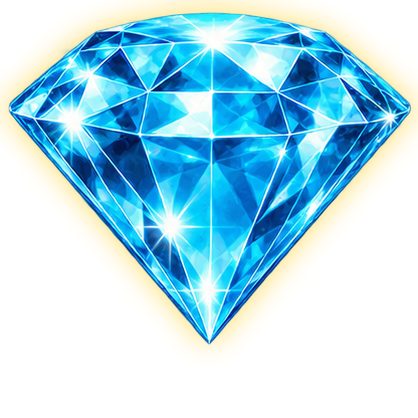
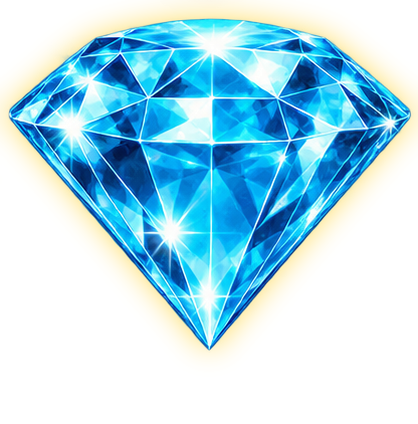
refine gold frame scaling, symbol extraction and Android asset loading checks

Changed region(s): [[0.0, 0.0, 0.9952, 0.8397]]

diff --git a/app/src/androidTest/java/com/mohamadhh/goldenclover/SmokeInstrumentation.java b/app/src/androidTest/java/com/mohamadhh/goldenclover/SmokeInstrumentation.java
@@ -7,11 +7,11 @@ public final class SmokeInstrumentation extends Instrumentation {
  private GoldenCloverView view;private GameState state;private String preset;private File directory;
  @Override public void onCreate(Bundle args){super.onCreate(args);preset=args.getString("preset","16x9");start();}
  private void check(boolean b,String message){if(!b)throw new AssertionError(message);}
- private void tap(float x,float y)throws Exception{final float[] point=new float[2];runOnMainSync(()->{float scale=Math.min(view.getWidth()/1920f,view.getHeight()/1080f);point[0]=(view.getWidth()-1920*scale)/2+x*scale;point[1]=(view.getHeight()-1080*scale)/2+y*scale;});long t=SystemClock.uptimeMillis();MotionEvent down=MotionEvent.obtain(t,t,MotionEvent.ACTION_DOWN,point[0],point[1],0);MotionEvent up=MotionEvent.obtain(t,t+60,MotionEvent.ACTION_UP,point[0],point[1],0);getUiAutomation().injectInputEvent(down,true);getUiAutomation().injectInputEvent(up,true);down.recycle();up.recycle();SystemClock.sleep(200);}
+ private void tap(float x,float y)throws Exception{final float[] point=new float[2];runOnMainSync(()->{try{Field f=GoldenCloverView.class.getDeclaredField("layout");f.setAccessible(true);ResponsiveLayout l=(ResponsiveLayout)f.get(view);point[0]=l.left+x*l.scale;point[1]=l.top+y*l.scale;}catch(Exception err){throw new RuntimeException(err);}});long t=SystemClock.uptimeMillis();MotionEvent down=MotionEvent.obtain(t,t,MotionEvent.ACTION_DOWN,point[0],point[1],0);MotionEvent up=MotionEvent.obtain(t,t+60,MotionEvent.ACTION_UP,point[0],point[1],0);getUiAutomation().injectInputEvent(down,true);getUiAutomation().injectInputEvent(up,true);down.recycle();up.recycle();SystemClock.sleep(200);}
  private void shot(String name)throws Exception{waitForIdleSync();SystemClock.sleep(150);Bitmap b=getUiAutomation().takeScreenshot();check(b!=null,"screenshot available");try(FileOutputStream out=new FileOutputStream(new File(directory,preset+"-"+name+".png"))){b.compress(Bitmap.CompressFormat.PNG,100,out);}b.recycle();}
  @Override public void onStart(){Bundle result=new Bundle();Activity activity=null;try{
   Intent intent=new Intent(getTargetContext(),MainActivity.class).addFlags(Intent.FLAG_ACTIVITY_NEW_TASK);activity=startActivitySync(intent);SystemClock.sleep(2500);
-  Activity a=activity;runOnMainSync(()->view=(GoldenCloverView)((ViewGroup)a.findViewById(android.R.id.content)).getChildAt(0));Field f=GoldenCloverView.class.getDeclaredField("g");f.setAccessible(true);state=(GameState)f.get(view);Field loaded=GoldenCloverView.class.getDeclaredField("loaded");loaded.setAccessible(true);check(loaded.getBoolean(view),"graphics and audio loaded");check(view.getWidth()>view.getHeight(),"landscape orientation");
+  Activity a=activity;runOnMainSync(()->view=(GoldenCloverView)((ViewGroup)a.findViewById(android.R.id.content)).getChildAt(0));Field f=GoldenCloverView.class.getDeclaredField("g");f.setAccessible(true);state=(GameState)f.get(view);Field loaded=GoldenCloverView.class.getDeclaredField("loaded");loaded.setAccessible(true);directory=new File(getTargetContext().getExternalFilesDir(null),"qa");directory.mkdirs();long deadline=SystemClock.uptimeMillis()+30000;while(!loaded.getBoolean(view)&&SystemClock.uptimeMillis()<deadline)SystemClock.sleep(200);if(!loaded.getBoolean(view)){shot("loading-failure");Field err=GoldenCloverView.class.getDeclaredField("error");err.setAccessible(true);throw new AssertionError("Asset load failed or timed out: "+err.get(view));}Field af=GoldenCloverView.class.getDeclaredField("audio");af.setAccessible(true);AudioManager audio=(AudioManager)af.get(view);deadline=SystemClock.uptimeMillis()+10000;while(audio.readyCount()<16&&SystemClock.uptimeMillis()<deadline)SystemClock.sleep(100);check(audio.readyCount()==16,"all 16 Android sound samples loaded");check(view.getWidth()>view.getHeight(),"landscape orientation");
   directory=new File(getTargetContext().getExternalFilesDir(null),"qa");directory.mkdirs();runOnMainSync(()->{state.credit=1000;state.bet.value=20;state.ui.auto=false;});shot("base");tap(568,1000);check(state.ui.betMenu,"bet panel opens menu");shot("bet-menu");tap(960,580);check(state.bet.value==50,"bet menu selection updates state");check(!state.ui.betMenu,"bet menu closes after selection");
   boolean sound=state.ui.sound;tap(1560,1000);check(state.ui.sound!=sound,"sound toggle");tap(1560,1000);tap(1764,945);check(state.phase==GameState.Phase.SPIN,"tap begins native reel motion");shot("spin");SystemClock.sleep(3000);runOnMainSync(()->{state.ui.auto=false;state.phase=GameState.Phase.IDLE;state.credit=4;});tap(1298,1000);check(!state.ui.auto,"auto stops when balance insufficient");
   runOnMainSync(()->{state.phase=GameState.Phase.IDLE;state.credit=10000;state.bet.value=20;});tap(200,854);check(state.phase==GameState.Phase.BOUNCE,"bonus button begins bounce");SystemClock.sleep(1800);shot("bell-drop");SystemClock.sleep(1400);shot("bonus");

diff --git a/tools/prepare_assets.py b/tools/prepare_assets.py
@@ -5,7 +5,7 @@ No reference screenshot is used by this pipeline. Pillow is required only for au
 import argparse,json,hashlib
 from pathlib import Path
 from PIL import Image,ImageFilter,ImageDraw
-p=argparse.ArgumentParser();p.add_argument('--symbols',required=True);p.add_argument('--decor',required=True);p.add_argument('--ui',required=True);p.add_argument('--background',required=True);args=p.parse_args()
+p=argparse.ArgumentParser();p.add_argument('--symbols',required=True);p.add_argument('--decor',required=True);p.add_argument('--ui',required=True);p.add_argument('--background',required=True);p.add_argument('--logo');args=p.parse_args()
 root=Path(__file__).resolve().parents[1]/'app/src/main/assets';(root/'symbols').mkdir(exist_ok=True);(root/'art').mkdir(exist_ok=True)
 def cell(path,cols,rows,n):
  im=Image.open(path).convert('RGBA');w,h=im.size;return im.crop((round((n%cols)*w/cols),round((n//cols)*h/rows),round((n%cols+1)*w/cols),round((n//cols+1)*h/rows)))
@@ -18,7 +18,7 @@ def trimmed(im):
  box=im.getchannel('A').point(lambda a:255 if a>20 else 0).getbbox();return im.crop(box) if box else im
 names=['bell','seven','clover','lemon','orange','grapes','watermelon','diamond','pot']
 for i,n in enumerate(names):
- im=cell(args.symbols,3,3,i);save(im,Path('symbols')/(n+'.webp'))
+ im=Image.open(args.symbols).convert('RGBA');sw,sh=im.size; regions=[(0,0,1/3,.359),(1/3,0,2/3,.359),(2/3,0,1,.359),(0,.359,1/3,.662),(1/3,.359,2/3,.662),(2/3,.359,1,.650),(0,.662,1/3,1),(1/3,.662,2/3,1),(2/3,.650,1,1)];box=regions[i];im=im.crop(tuple(round(v*(sw if j%2==0 else sh)) for j,v in enumerate(box)));save(im,Path('symbols')/(n+'.webp'))
  # Win sprites include a separate alpha glow layer, baked for predictable Android blending.
  glow=Image.new('RGBA',im.size,(255,213,64,0));glow.putalpha(im.getchannel('A').filter(ImageFilter.GaussianBlur(14)).point(lambda a:int(a*.85)));glow.alpha_composite(im);save(glow,Path('symbols')/(n+'_win.webp'))
 decor=['tree_trunk','tree_blue','tree_red','tree_green','clover_clusters','coin','panel','spin_button','spark']
@@ -26,10 +26,14 @@ items={n:cell(args.decor,3,3,i) for i,n in enumerate(decor)}
 for n in decor:
  if n!='panel':save(items[n],Path('art')/(n+'.webp'))
 uinames=['logo','reel_frame','grand_panel','major_panel','mini_panel','rays']
-for i,n in enumerate(uinames):save(trimmed(cell(args.ui,3,2,i)),Path('art')/(n+'.webp'))
+for i,n in enumerate(uinames):
+ im=trimmed(cell(args.ui,3,2,i))
+ if n=='reel_frame':im=im.crop((32,0,im.width,im.height))
+ if n=='logo' and args.logo:im=trimmed(Image.open(args.logo).convert('RGBA'))
+ save(im,Path('art')/(n+'.webp'))
 for n in ['bet_panel','credit_panel','win_panel','auto_button','sound_button','menu_button','bonus_button','minor_panel']:save(trimmed(items['panel']),Path('art')/(n+'.webp'))
-save(trimmed(cell(args.ui,3,2,1)),Path('art/bonus_panel.webp'))
-save(cell(args.symbols,3,3,0),Path('art/bonus_bell.webp'))
+save(Image.open(root/'art/reel_frame.webp'),Path('art/bonus_panel.webp'))
+save(Image.open(root/'symbols/bell.webp'),Path('art/bonus_bell.webp'))
 save(Image.open(args.background).convert('RGB'),Path('art/background.webp'))
 # Lightweight independent cell and additive glow textures, never used as game symbols.
 im=Image.new('RGBA',(256,224),(0,0,0,0));d=ImageDraw.Draw(im);d.rounded_rectangle((1,1,254,222),radius=12,fill=(4,26,17,245),outline=(100,100,44,150),width=2);save(im,Path('art/reel_cell.webp'))

diff --git a/app/src/main/java/com/mohamadhh/goldenclover/GoldenCloverView.java b/app/src/main/java/com/mohamadhh/goldenclover/GoldenCloverView.java
@@ -16,7 +16,7 @@ public final class GoldenCloverView extends View implements Choreographer.FrameC
  private static final Typeface SERIF=Typeface.create("serif",Typeface.BOLD),SANS=Typeface.create("sans-serif-medium",Typeface.NORMAL);
  private static final String[] JACKPOTS={"GRAND","MAJOR","MINOR","MINI"},JACKPOT_ART={"grand_panel","major_panel","minor_panel","mini_panel"};
  private final Paint p=new Paint(Paint.ANTI_ALIAS_FLAG|Paint.FILTER_BITMAP_FLAG);
- private final RectF dst=new RectF();
+ private final RectF dst=new RectF();private final Rect source=new Rect();
  private final SharedPreferences prefs;
  private AudioManager audio;
  private volatile boolean loaded,disposed;private volatile String error;
@@ -47,7 +47,9 @@ public final class GoldenCloverView extends View implements Choreographer.FrameC
  private static String money(double value){return String.format(Locale.US,"%,.2f TL",value);}
  private static String integer(double value){return String.format(Locale.US,"%,d",(long)value);}
  private void bmp(Canvas c,Bitmap b,float x,float y,float w,float h,int alpha){if(b==null)return;p.setShader(null);p.setColor(Color.WHITE);p.setAlpha(Math.max(0,Math.min(255,alpha)));dst.set(x,y,x+w,y+h);c.drawBitmap(b,null,dst,p);p.setAlpha(255);}
- private void art(Canvas c,String name,float x,float y,float w,float h){bmp(c,assets.get(name),x,y,w,h,255);}
+ private void art(Canvas c,String name,float x,float y,float w,float h){if(name.equals("reel_frame")||name.equals("bonus_panel")){frame(c,assets.get(name),x,y,w,h);return;}bmp(c,assets.get(name),x,y,w,h,255);}
+ private void frame(Canvas c,Bitmap b,float x,float y,float w,float h){p.setShader(null);p.setColor(Color.WHITE);p.setAlpha(255);int bw=b.getWidth(),bh=b.getHeight(),edge=60;float capX=43,capY=37;for(int row=0;row<3;row++)for(int col=0;col<3;col++){int sl=col==0?0:col==1?edge:bw-edge,st=row==0?0:row==1?edge:bh-edge,sr=col==0?edge:col==1?bw-edge:bw,sb=row==0?edge:row==1?bh-edge:bh;float dl=x+(col==0?0:col==1?capX:w-capX),dt=y+(row==0?0:row==1?capY:h-capY),dr=x+(col==0?capX:col==1?w-capX:w),db=y+(row==0?capY:row==1?h-capY:h);source.set(sl,st,sr,sb);dst.set(dl,dt,dr,db);c.drawBitmap(b,source,dst,p);}}
+
  private void rect(Canvas c,float x,float y,float w,float h,int color,float radius){p.setShader(null);p.setColor(color);p.setStyle(Paint.Style.FILL);dst.set(x,y,x+w,y+h);c.drawRoundRect(dst,radius,radius,p);}
  private void text(Canvas c,String text,float x,float y,float size,int color,boolean bold){p.setShader(null);p.setColor(color);p.setTextSize(size);p.setTypeface(bold?SERIF:SANS);p.setTextAlign(Paint.Align.CENTER);p.setShadowLayer(3,0,2,0xdd000000);c.drawText(text,x,y,p);p.clearShadowLayer();}
  private void goldText(Canvas c,String s,float x,float y,float size){p.setTextSize(size);p.setTypeface(SERIF);p.setTextAlign(Paint.Align.CENTER);p.setColor(0xff3b1903);p.setStyle(Paint.Style.STROKE);p.setStrokeWidth(size*.075f);c.drawText(s,x,y,p);p.setStyle(Paint.Style.FILL);p.setShader(gold);c.drawText(s,x,y,p);p.setShader(null);}

diff --git a/app/src/main/java/com/mohamadhh/goldenclover/game/AudioManager.java b/app/src/main/java/com/mohamadhh/goldenclover/game/AudioManager.java
@@ -5,6 +5,7 @@ public final class AudioManager {
  public static final String[] NAMES={"click","spin_start","reel_loop","reel_stop_1","reel_stop_2","reel_stop_3","reel_stop_4","reel_stop_5","normal_win","medium_win","big_win","coin_shower","bonus_trigger","bell_drop","respin_reset","jackpot"};
  private final int[] ids=new int[NAMES.length];private final boolean[] ready=new boolean[NAMES.length];private final SoundPool pool;private boolean enabled=true;private int loop;private boolean wantLoop;
  public AudioManager(Context c)throws IOException{pool=new SoundPool.Builder().setMaxStreams(10).setAudioAttributes(new AudioAttributes.Builder().setUsage(AudioAttributes.USAGE_GAME).setContentType(AudioAttributes.CONTENT_TYPE_SONIFICATION).build()).build();pool.setOnLoadCompleteListener((p,id,status)->{for(int i=0;i<ids.length;i++)if(ids[i]==id)ready[i]=status==0;});for(int i=0;i<NAMES.length;i++)try(AssetFileDescriptor fd=c.getAssets().openFd("audio/"+NAMES[i]+".wav")){ids[i]=pool.load(fd,1);}}
+ public int readyCount(){int n=0;for(boolean r:ready)if(r)n++;return n;}
  public void enabled(boolean on){enabled=on;if(!on)stopLoop();}
  public void play(int i){if(enabled&&ready[i])pool.play(ids[i],.8f,.8f,1,0,1);}
  public void loop(boolean on){wantLoop=on;if(!on){stopLoop();return;}if(enabled&&loop==0&&ready[2])loop=pool.play(ids[2],.22f,.22f,0,-1,1);}

diff --git a/app/src/main/java/com/mohamadhh/goldenclover/game/GameState.java b/app/src/main/java/com/mohamadhh/goldenclover/game/GameState.java
@@ -21,7 +21,7 @@ public final class GameState {
    case IDLE:if(ui.auto&&time>.7f)spin();break;
    case SPIN:int old=reels.stopped;reels.update(dt,time);for(int c=old;c<reels.stopped;c++)events|=STOP0<<c;if(time>2.65f){baseWin=PayoutLogic.evaluate(reels.symbols,bet.value,reels.glow);if(reels.bonusCount()>=5){credit+=baseWin;beginBonus();}else{win=baseWin;credit+=win;if(win>0){events|=win>=bet.value*10?BIG:win>=bet.value*3?MEDIUM:NORMAL;events|=COINS;enter(Phase.WIN);}else enter(Phase.IDLE);}}break;
    case WIN:if(time>(win>=bet.value*10?4.5f:2.0f))enter(Phase.IDLE);break;
-   case BOUNCE:if(time-dt<.8f&&time>=.8f)events|=DROP;if(time>3.2f){enter(Phase.BONUS);events|=COINS;}break;
+   case BOUNCE:if(time-dt<1.85f&&time>=1.85f)events|=DROP;if(time>3.2f){enter(Phase.BONUS);events|=COINS;}break;
    case BONUS:if(time>1.2f){enter(Phase.RESPIN);events|=START;}break;
    case RESPIN:if(time>1.4f){boolean added=bonus.respin(random,bet.value);events|=STOP0;if(added){events|=RESET|COINS;}if(bonus.remaining==0){win=bonus.total;credit+=win;events|=bonus.grand?JACKPOT:BIG;events|=COINS;enter(Phase.BONUS_END);}else enter(Phase.BONUS);}break;
    case BONUS_END:if(time>(bonus.grand?9:5))enter(Phase.IDLE);break;
